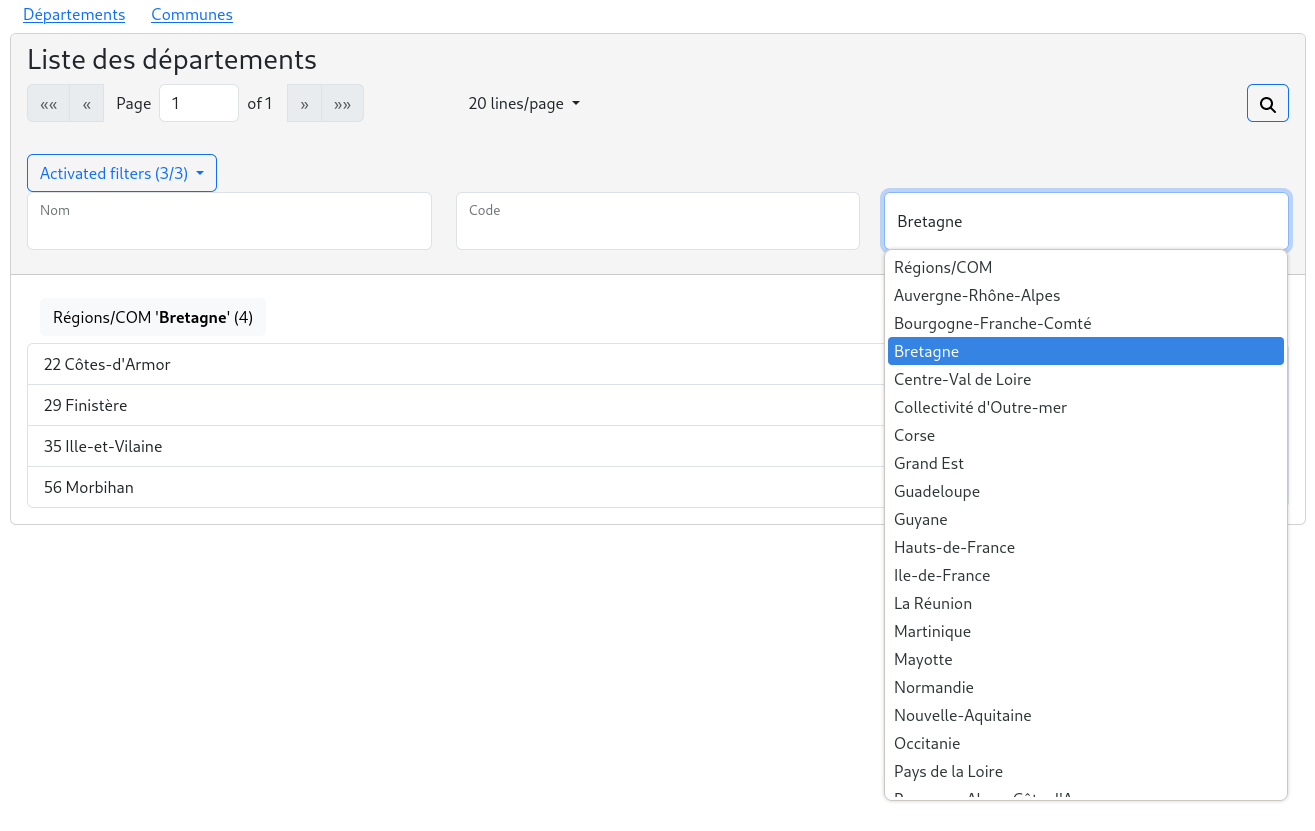
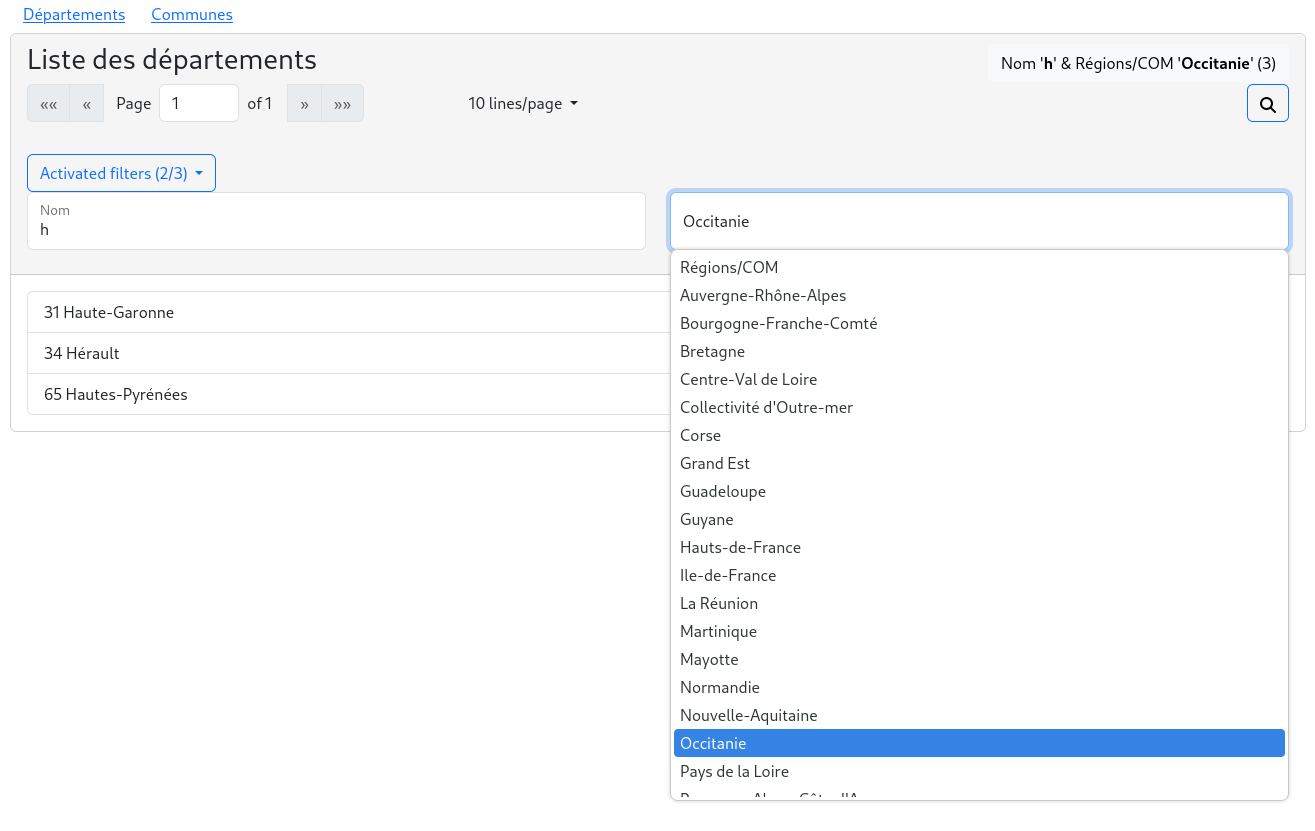
Add inactivate option to filter.

diff --git a/projects/test-paginator/src/app/departement/departements/departements.component.html b/projects/test-paginator/src/app/departement/departements/departements.component.html
@@ -2,13 +2,11 @@
   <div class="card-header sticky-top">
     <h3 clas="row">
       <span class="col-md">Liste des départements</span>
+      <ngbrx-paginator-filter-desc class="right" [key]="key"></ngbrx-paginator-filter-desc>
     </h3>
     <ngbrx-paginator [key]="key"></ngbrx-paginator>
   </div>
   <div class="card-body">
-    <span class="badge text-wrap fs-5">
-      <ngbrx-paginator-filter-desc [key]="key"></ngbrx-paginator-filter-desc>
-    </span>
     <div class="list-group">
       <div class="list-group-item" *ngFor="let item of collection$ | async">
         {{ item.code }} {{ item.nom }}

diff --git a/projects/test-paginator/src/app/commune/commune.module.ts b/projects/test-paginator/src/app/commune/commune.module.ts
@@ -17,8 +17,8 @@ import { CommuneRoutingModule } from './commune-routing.module';
         filters: {
           'Code': { filter: fromCommune.byCode },
           'Nom': { filter: fromCommune.byName },
-          'Population >': { filter: fromCommune.byPopulationGreaterThan },
-          'Population <': { filter: fromCommune.byPopulationLesserThan }
+          'Population >': { filter: fromCommune.byPopulationGreaterThan, inactivate: true },
+          'Population <': { filter: fromCommune.byPopulationLesserThan, inactivate: true }
         },
         allDataSelector: fromCommune.selectAll
       }

diff --git a/projects/test-paginator/src/app/commune/communes/communes.component.html b/projects/test-paginator/src/app/commune/communes/communes.component.html
@@ -2,13 +2,11 @@
   <div class="card-header sticky-top">
     <h3>
       Liste des communes
+      <ngbrx-paginator-filter-desc class="right" [key]="key"></ngbrx-paginator-filter-desc>
     </h3>
     <ngbrx-paginator [key]="key"></ngbrx-paginator>
   </div>
   <div class="card-body">
-    <span class="badge text-wrap fs-5">
-      <ngbrx-paginator-filter-desc [key]="key"></ngbrx-paginator-filter-desc>
-    </span>
     <div class="list-group">
       <div class="list-group-item" *ngFor="let item of collection$ | async">
         {{ item.code }} {{ item.nom }}

diff --git a/projects/ngbrx-paginator/src/lib/reducers/index.ts b/projects/ngbrx-paginator/src/lib/reducers/index.ts
@@ -65,7 +65,11 @@ export const reducers = createReducer(
       }
       const pagination = { ...iPagination };
       const activatedFilters: number[] = [];
-      filters.forEach((filter) => activatedFilters.push(filters.indexOf(filter)));
+      filters.forEach((filter, index) => {
+        if (!action.paginator.filters[filter].inactivate) {
+          activatedFilters.push(index);
+        }
+      });
       if (filters) {
         const filterQueries: string[] = [];
         filters.forEach(_ => filterQueries.push(''));

diff --git a/projects/test-paginator/src/app/departement/departement.module.ts b/projects/test-paginator/src/app/departement/departement.module.ts
@@ -15,7 +15,7 @@ import { NgbrxPaginatorModule } from 'ngbrx-paginator';
       'Departement/Pagination': {
         filters: {
           'Nom': { filter: fromDepartement.byName },
-          'Code': { filter: fromDepartement.byCode },
+          'Code': { filter: fromDepartement.byCode, inactivate: true },
           'Régions/COM': { filter: fromDepartement.byRegion, values: fromDepartement.selectRegions }
         },
         allDataSelector: fromDepartement.selectAll,

diff --git a/projects/ngbrx-paginator/src/lib/ngbrx-paginator.model.ts b/projects/ngbrx-paginator/src/lib/ngbrx-paginator.model.ts
@@ -25,7 +25,7 @@ export interface FilterFunction<D> {
 }
 
 export interface FilterFunctions<D> {
-  [key: string]: { filter: FilterFunction<D>, values?: MemoizedSelector<object, any> }
+  [key: string]: { filter: FilterFunction<D>, values?: MemoizedSelector<object, any>, inactivate?: boolean }
 }
 
 export interface Paginator<D> {

diff --git a/README.md b/README.md
@@ -10,7 +10,6 @@ The code is rather simple and if you want to join, you are more than welcome.
 **This package does not deal with backend pagination.**
 
 
-![communes](images/communes.png)
 
 
 ### Demo https://collorg.github.io/ngbrx-paginator-demo
@@ -25,9 +24,54 @@ ngbrx-paginator depends on [ngrx](https://ngrx.io/) and [ng-bootstrap](https://n
 
 ## Usage
 
-The sample code is extracted from the [departement](./projects/test-paginator/src/app/departement) module of the test application.
+The following example is extracted from the [departement](./projects/test-paginator/src/app/departement) module of the test application.
 
-Add the `NgbrxPaginatorModule` in your [departement.module.ts](./projects/test-paginator/src/app/departement/departement.module.ts) dependencies:
+Suppose you have a `departement` [sic] module that has a slice of your store containing all the departments of France. The module provides a `departements` component that displays an unpaginated list of the departments:
+
+departements.component.ts
+```ts
+import { Component } from '@angular/core';
+import { Observable } from 'rxjs';
+import { Departement } from '../departement.model';
+import { Store } from '@ngrx/store';
+import * as fromStore from '../departement.reducer';
+
+@Component({
+  selector: 'app-departements',
+  templateUrl: './departements.component.html',
+  styleUrls: ['./departements.component.css']
+})
+export class DepartementsComponent {
+  collection$: Observable<Departement[]> = this.store.select(fromStore.selectAll);
+
+  constructor(
+    private store: Store<fromStore.State>
+  ) { }
+
+}
+```
+
+departements.component.html
+```html
+<div class="card">
+  <div class="card-header sticky-top">
+    <h3 clas="row">
+      <span class="col-md">Liste des départements</span>
+    </h3>
+  </div>
+  <div class="card-body">
+    <div class="list-group">
+      <div class="list-group-item" *ngFor="let item of collection$ | async">
+        {{ item.code }} {{ item.nom }}
+      </div>
+    </div>
+  </div>
+</div>
+```
+
+![unpaginated departments](images/unpaginated-departements.png)
+
+First, add the `NgbrxPaginatorModule` to your [departement.module.ts](./projects/test-paginator/src/app/departement/departement.module.ts) dependencies:
 
 ```ts
 import * as fromDepartement from './departement.reducer';
@@ -45,10 +89,13 @@ import { NgbrxPaginatorModule } from 'ngbrx-paginator';
         // Optional
         filters: { // You can provide more than one filter by paginator.
           'Nom': { filter: fromDepartement.byName },
-          'Code': { filter: fromDepartement.byCode },
+          'Code': {
+            filter: fromDepartement.byCode,
+            inactivate: true // Optional: not displayed when the page is loaded for the first time.
+          },
           'Régions/COM': {
             filter: fromDepartement.byRegion,
-            values: fromDepartement.selectRegions // Optional: provide select values
+            values: fromDepartement.selectRegions // Optional: provides the select values
           }
         },
         pageSizeOptions: [10, 20, 30] // Defaults to [5, 10, 25, 100]
@@ -58,7 +105,20 @@ import { NgbrxPaginatorModule } from 'ngbrx-paginator';
   ],
 ```
 
-in your component class add the attributes `key` and , and use `NgbrxPaginationService` to paginate/filter your collection:
+The object provided to the forFeature static method discribes the paginators for this module.
+Each paginator is an object identified by a unique name in the application with the following properties:
+    
+* `allDataSelector`: the ngrx selector that returns the observable of your data set;
+* `filters?`: (optional) an object of type `{ [key: string]: { filter, values?, inactivate? } }`.
+
+  Each filter is identified by a key which will be used as a placeholder for the input or the default value for the select. To each key is associated an object with the following properties:
+
+  * `filter`: a filter function that takes two parameters `(items: Data[], query: string)` and returns `Data[]`;
+  * `values`: (optional) a MemoizedSelector. If provided, a HTML select element is displayed with the values instead of the input.
+  * `inactivate`: (optional) boolean. If set to true the filter is inactivated when the paginator is loaded for the first time.
+* `pageSizeOptions?`: (optional) defaults to [5, 10, 25, 100].
+
+You have done the most important part of the job. Now, in your component class, add the attribute `key` to specify the name of the paginator, and use `NgbrxPaginationService` to paginate/filter your collection:
 
 ```ts
 import { Component } from '@angular/core';
@@ -91,12 +151,11 @@ Finally, add the `ngbrx-paginator` component and the optional `ngbrx-paginator-f
   <div class="card-header sticky-top">
     <h3>
       Liste des départements
+    <!-- add (optional) --> <ngbrx-paginator-filter-desc class="right" [key]="key"></ngbrx-paginator-filter-desc>
     </h3>
-    <!-- ngbrx-paginator provides the pagination with the optional filters -->
-    <ngbrx-paginator [key]="key"></ngbrx-paginator>
+    <!-- add --> <ngbrx-paginator [key]="key"></ngbrx-paginator>
   </div>
   <div class="card-body">
-    <!-- optional --> <ngbrx-paginator-filter-desc [key]="key"></ngbrx-paginator-filter-desc>
     <div class="list-group">
       <div class="list-group-item" *ngFor="let item of collection$ | async">
         {{ item.code }} {{ item.nom }}
@@ -105,5 +164,7 @@ Finally, add the `ngbrx-paginator` component and the optional `ngbrx-paginator-f
   </div>
 </div>
 ```
+
+Voilà ! You now have a paginated list of `departements` with filters:
 
 ![départements](images/departements.png)
